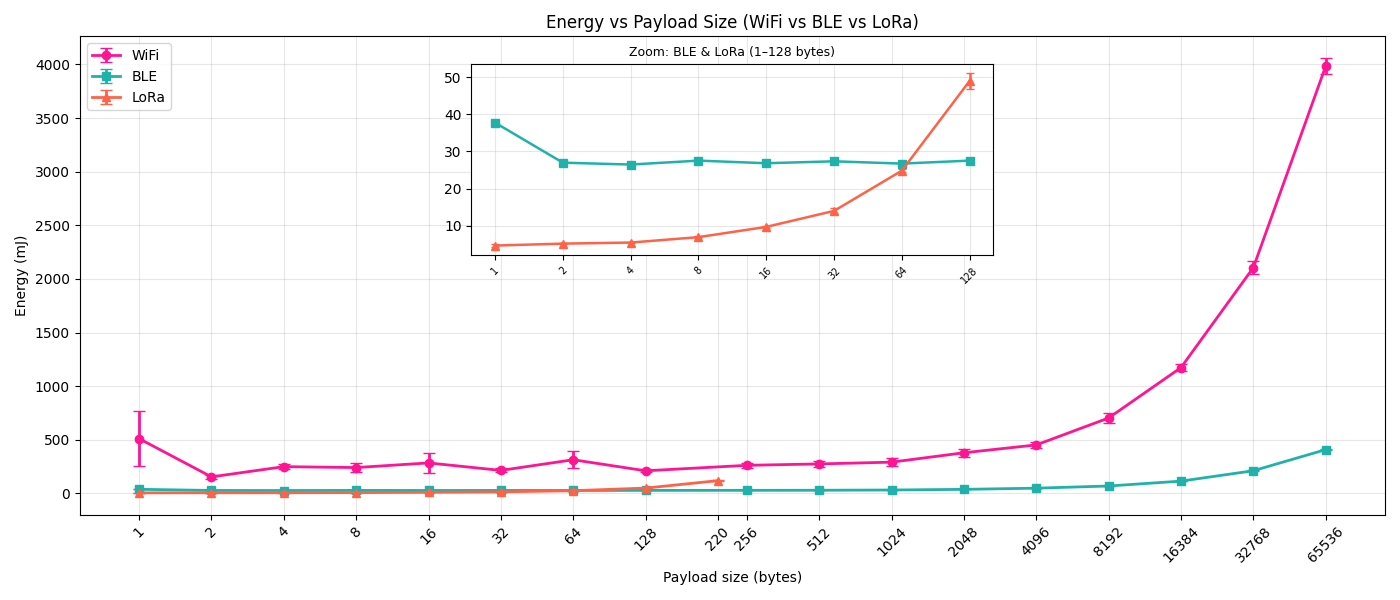
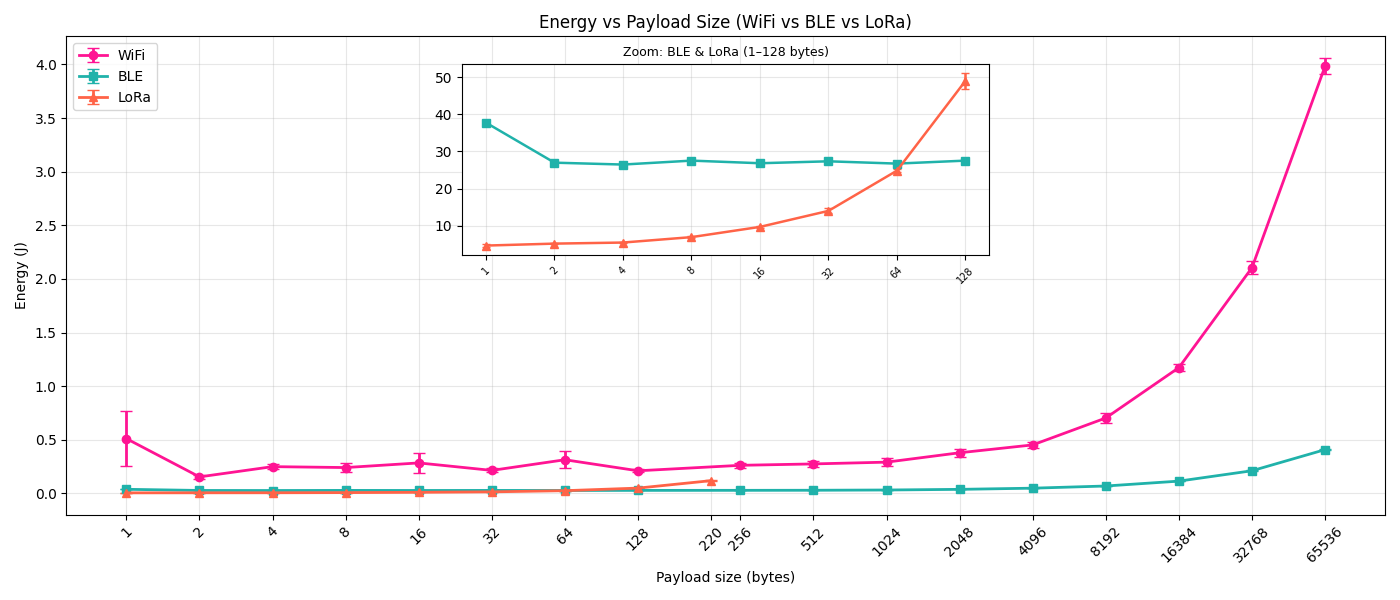
mj and j plots 	renamed:    data analysis/all compared/boot/boot_energy_comparison.png -> data analysis/all compared/boot/OLD_boot_energy_comparison.png 	renamed:    data analysis/all compared/boot/trimmed_boot_energy_comparison.png -> data analysis/all compared/boot/OLD_trimmed_boot_energy_comparis

diff --git a/data analysis/all compared/boot/boot_energy.py b/data analysis/all compared/boot/boot_energy.py
@@ -10,6 +10,8 @@ DATASETS = {
     "LoRa": "/Users/jude/Documents/GitHub/BTR/data analysis/LoRa (all in one)/boot/clean data",
 }
 
+V_supply = 5.013517
+
 # ----------------------------------------
 
 
@@ -41,10 +43,23 @@ def compute_energy(df):
     if len(df) < 2:
         return np.nan
 
-    t = df["time_s"].values
-    power = df["v_shunt"].values * df["current"].values
+    # --- sort to be safe ---
+    df = df.sort_values("timestamp").copy()
 
-    return np.trapz(power, t)
+    # --- recompute time ---
+    t0 = df["timestamp"].iloc[0]
+    t = (df["timestamp"] - t0).dt.total_seconds().values
+
+    # --- compute current (already correct) ---
+    current = df["current"].values
+
+    # --- CORRECT power ---
+    power = V_supply * current
+
+    # --- integrate ---
+    energy = np.trapz(power, t)
+
+    return energy
 
 
 # ---------------- PROCESS ----------------
@@ -85,8 +100,8 @@ def summarize(energies):
 def plot(results):
     labels = list(results.keys())
 
-    means = [results[k][0] * 1000 for k in labels]   # mJ
-    ci95s = [results[k][2] * 1000 for k in labels]
+    means = [results[k][0] for k in labels]   # J
+    ci95s = [results[k][2] for k in labels]
 
     x = np.arange(len(labels))
 
@@ -102,7 +117,7 @@ def plot(results):
 
     plt.yscale("log")
     plt.xticks(x, labels)
-    plt.ylabel("Boot Energy (mJ)")
+    plt.ylabel("Boot Energy (J)")
     plt.title("Boot Energy Comparison (Mean ± 95% CI)")
 
     plt.grid(axis="y", alpha=0.3)

diff --git a/data analysis/all compared/tx/energy_per_payload.py b/data analysis/all compared/tx/energy_per_payload.py
@@ -161,8 +161,8 @@ def plot_all(summaries):
 
         plt.errorbar(
             x,
-            summary["mean_energy"] * 1000,
-            yerr=summary["ci95"] * 1000,
+            summary["mean_energy"],
+            yerr=summary["ci95"],
             fmt=shapes[name] + "-",
             capsize=4,
             linewidth=2,
@@ -177,7 +177,7 @@ def plot_all(summaries):
     plt.xticks(xticks, xlabels, rotation=45)
 
     plt.xlabel("Payload size (bytes)")
-    plt.ylabel("Energy (mJ)")
+    plt.ylabel("Energy (J)")
     plt.title("Energy vs Payload Size (WiFi vs BLE vs LoRa)")
     plt.grid(True, alpha=0.3)
     plt.legend()